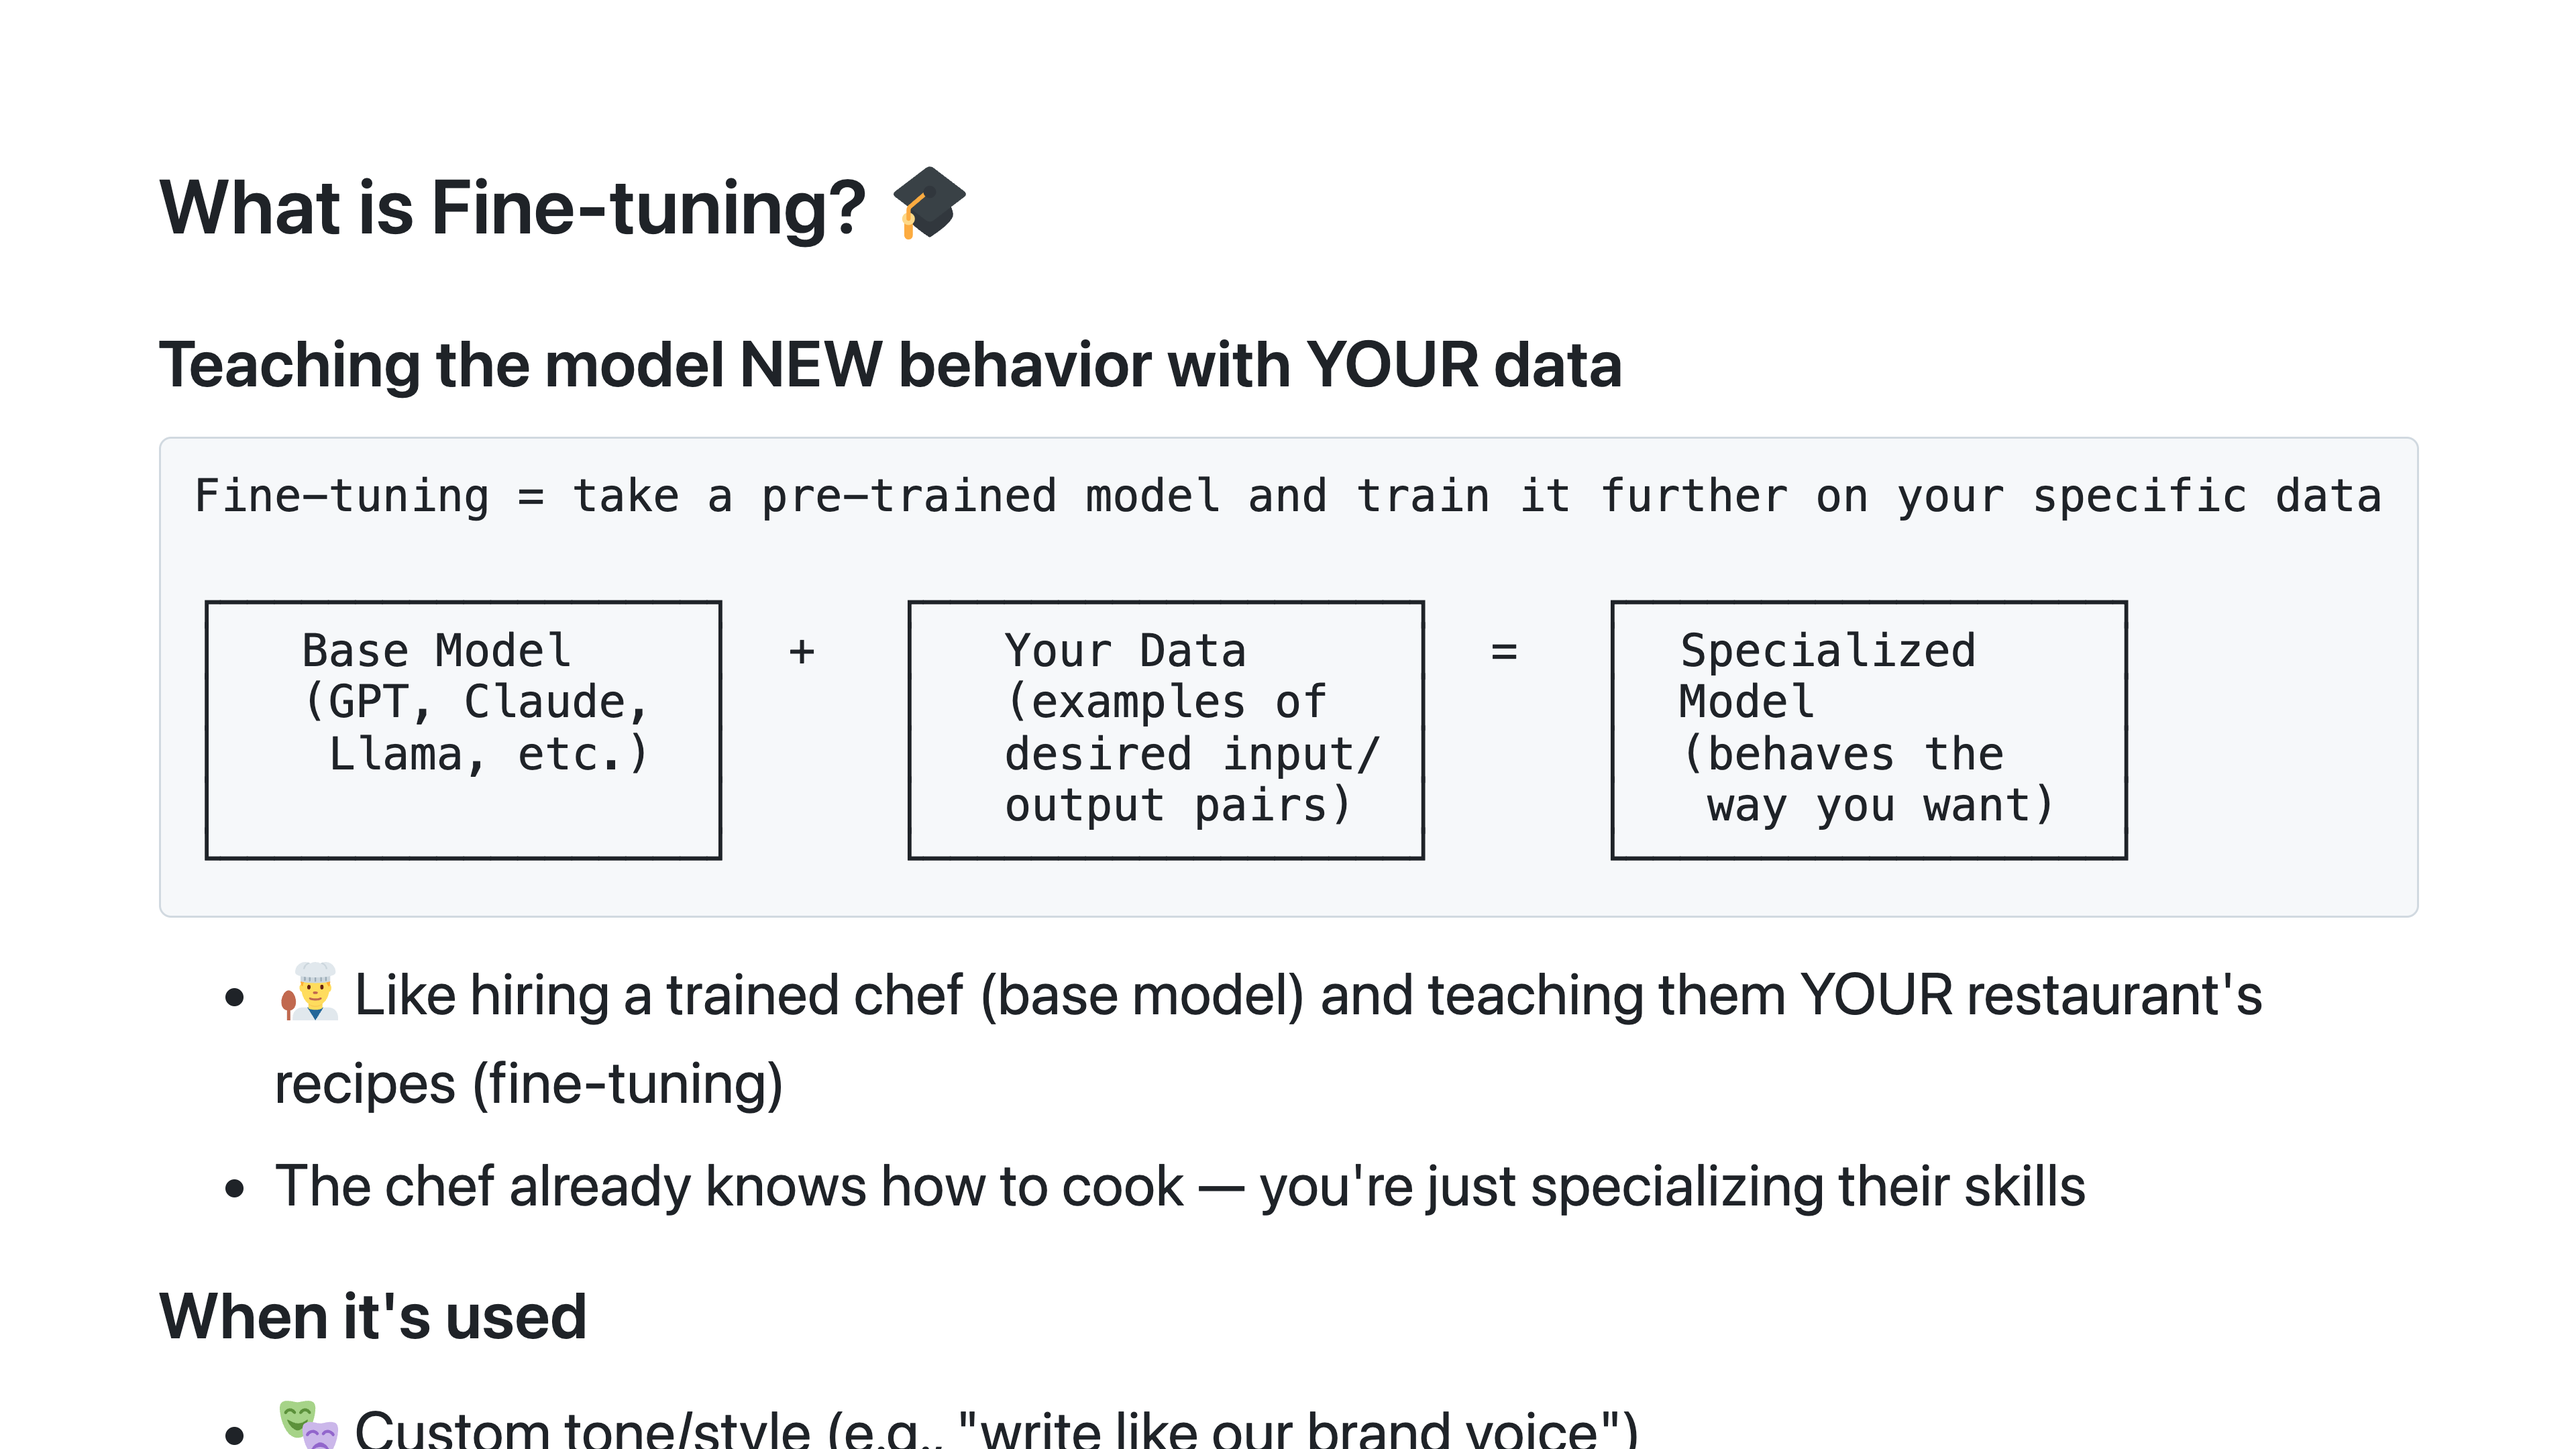
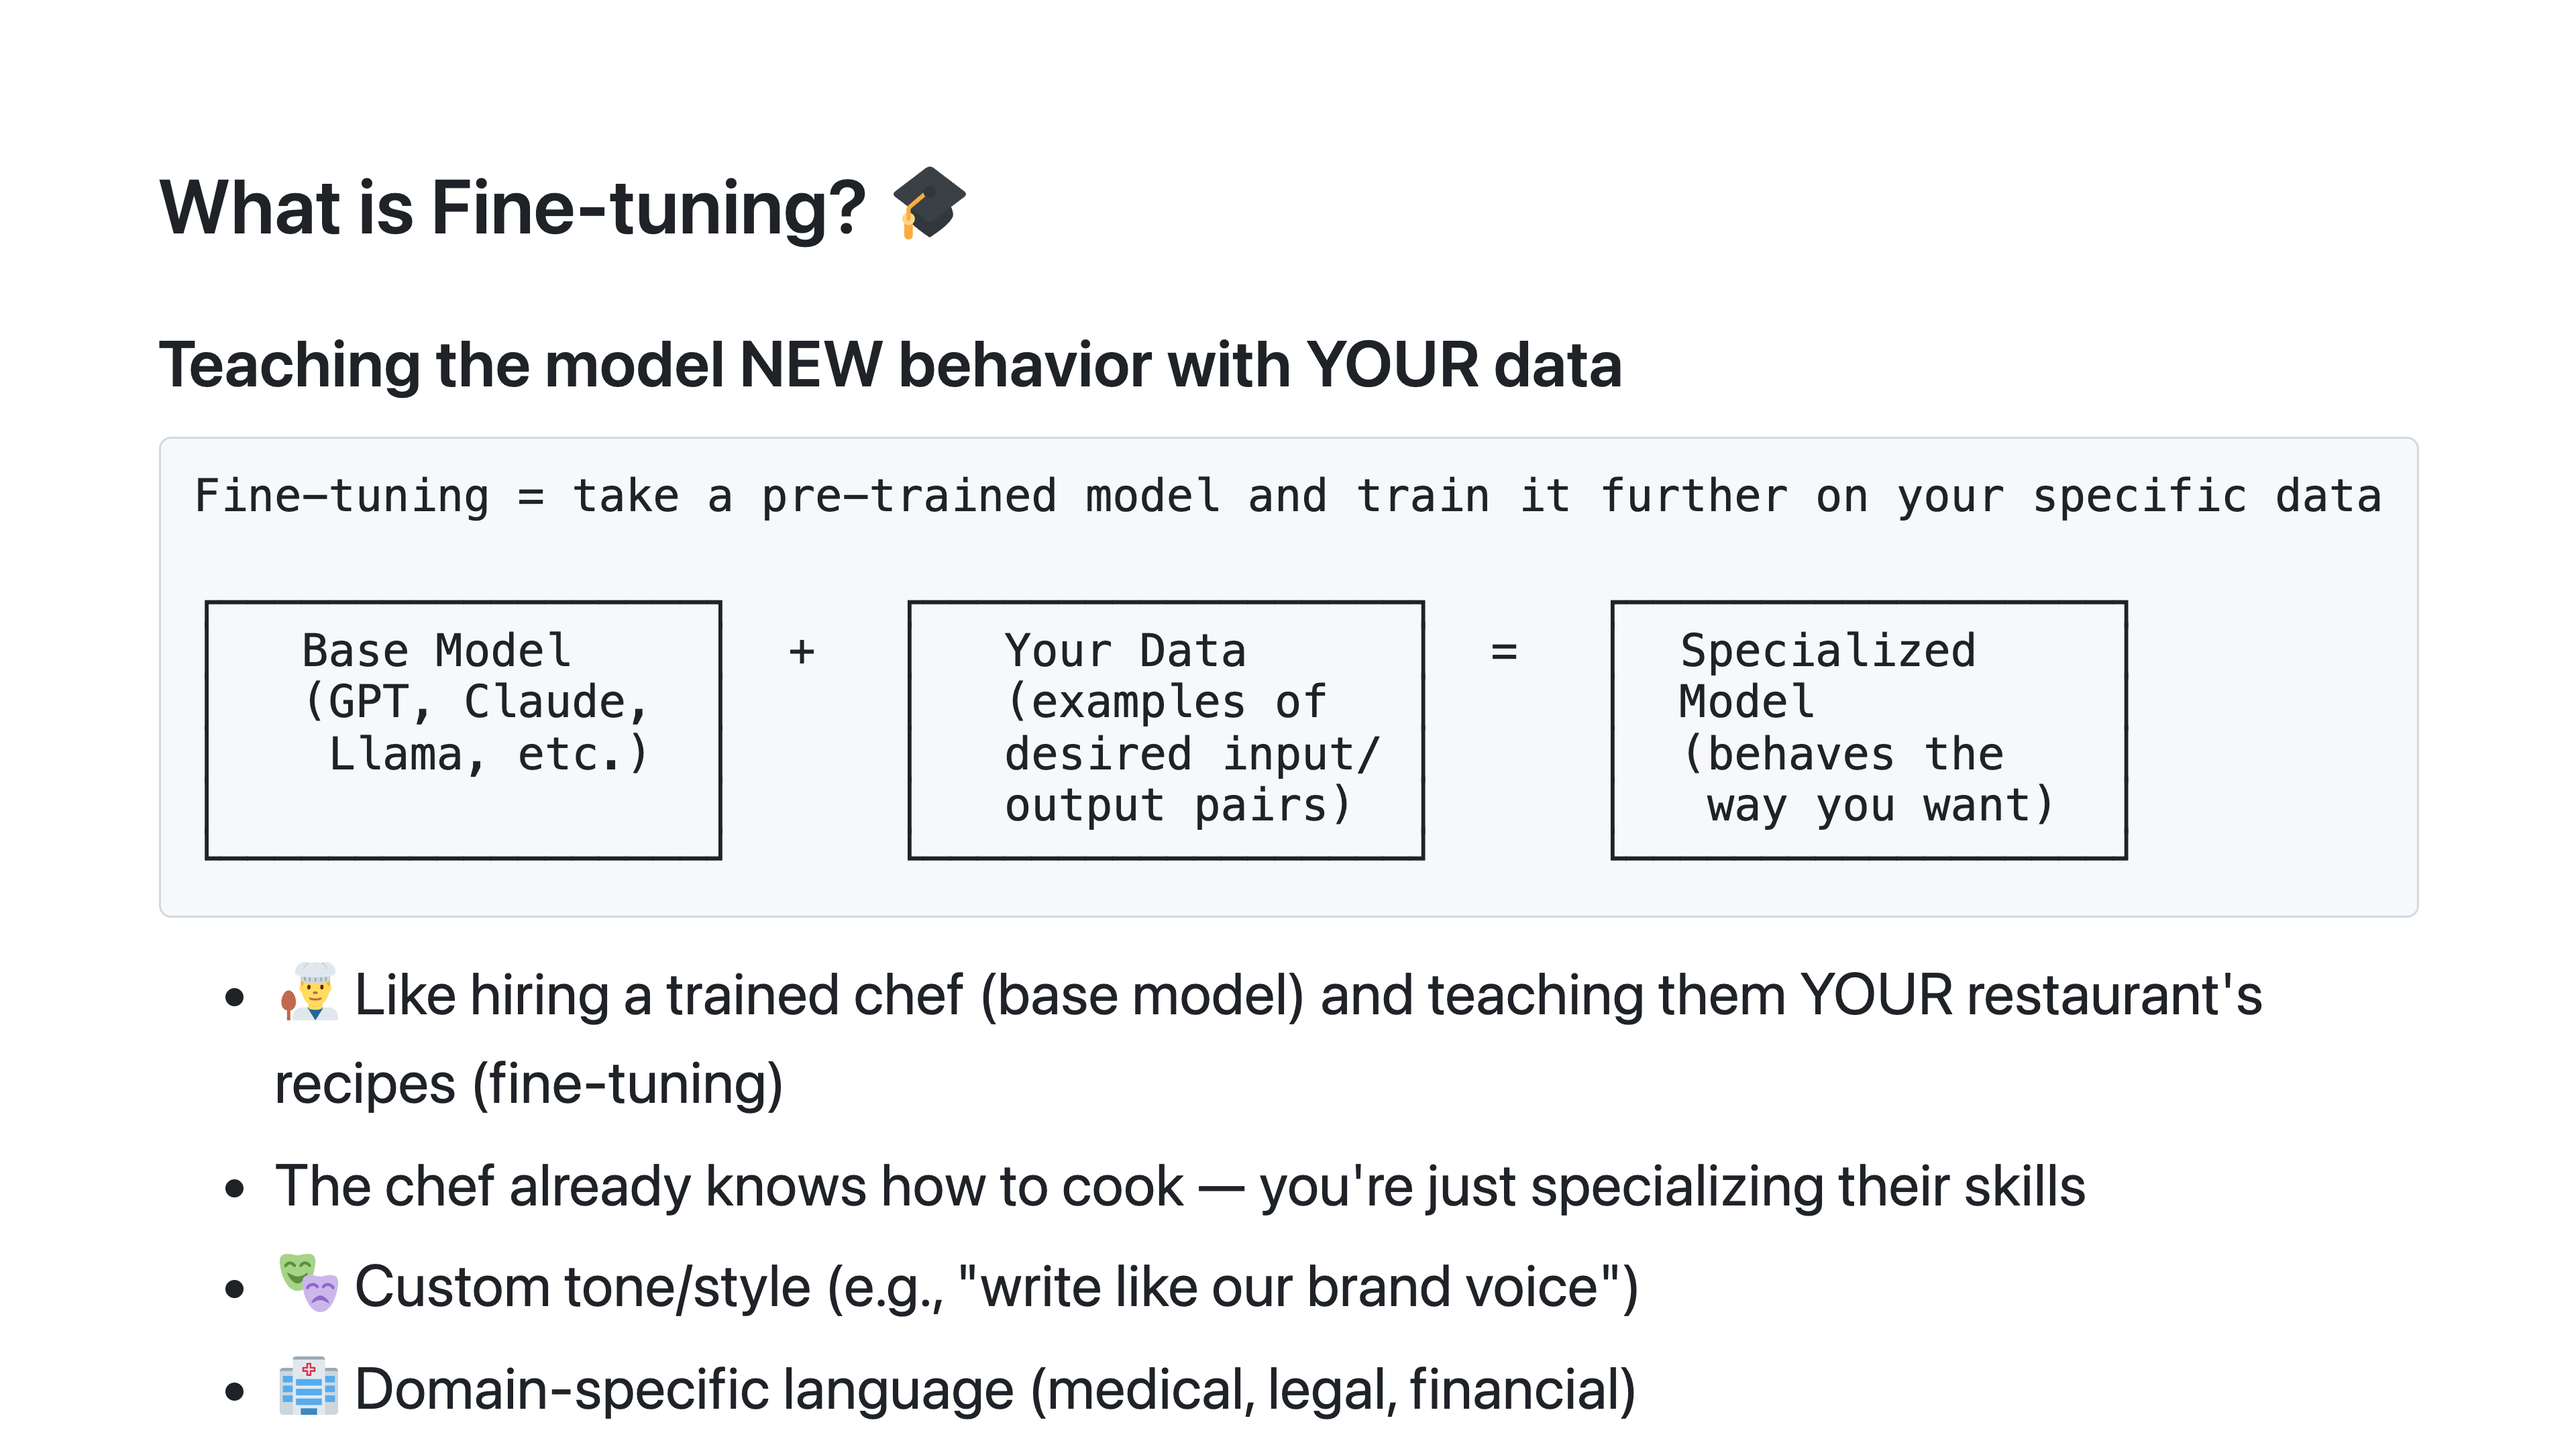
minor edits

Changed region(s): [[0.0625, 0.8685, 0.6562, 1.0]]

diff --git a/slides.md b/slides.md
@@ -602,12 +602,8 @@ Fine-tuning = take a pre-trained model and train it further on your specific dat
 
 - 👨🍳 Like hiring a trained chef (base model) and teaching them YOUR restaurant's recipes (fine-tuning)
 - The chef already knows how to cook — you're just specializing their skills
-
-### When it's used
-
 - 🎭 Custom tone/style (e.g., "write like our brand voice")
 - 🏥 Domain-specific language (medical, legal, financial)
-- 📏 Consistent output format
 
 ---
 
